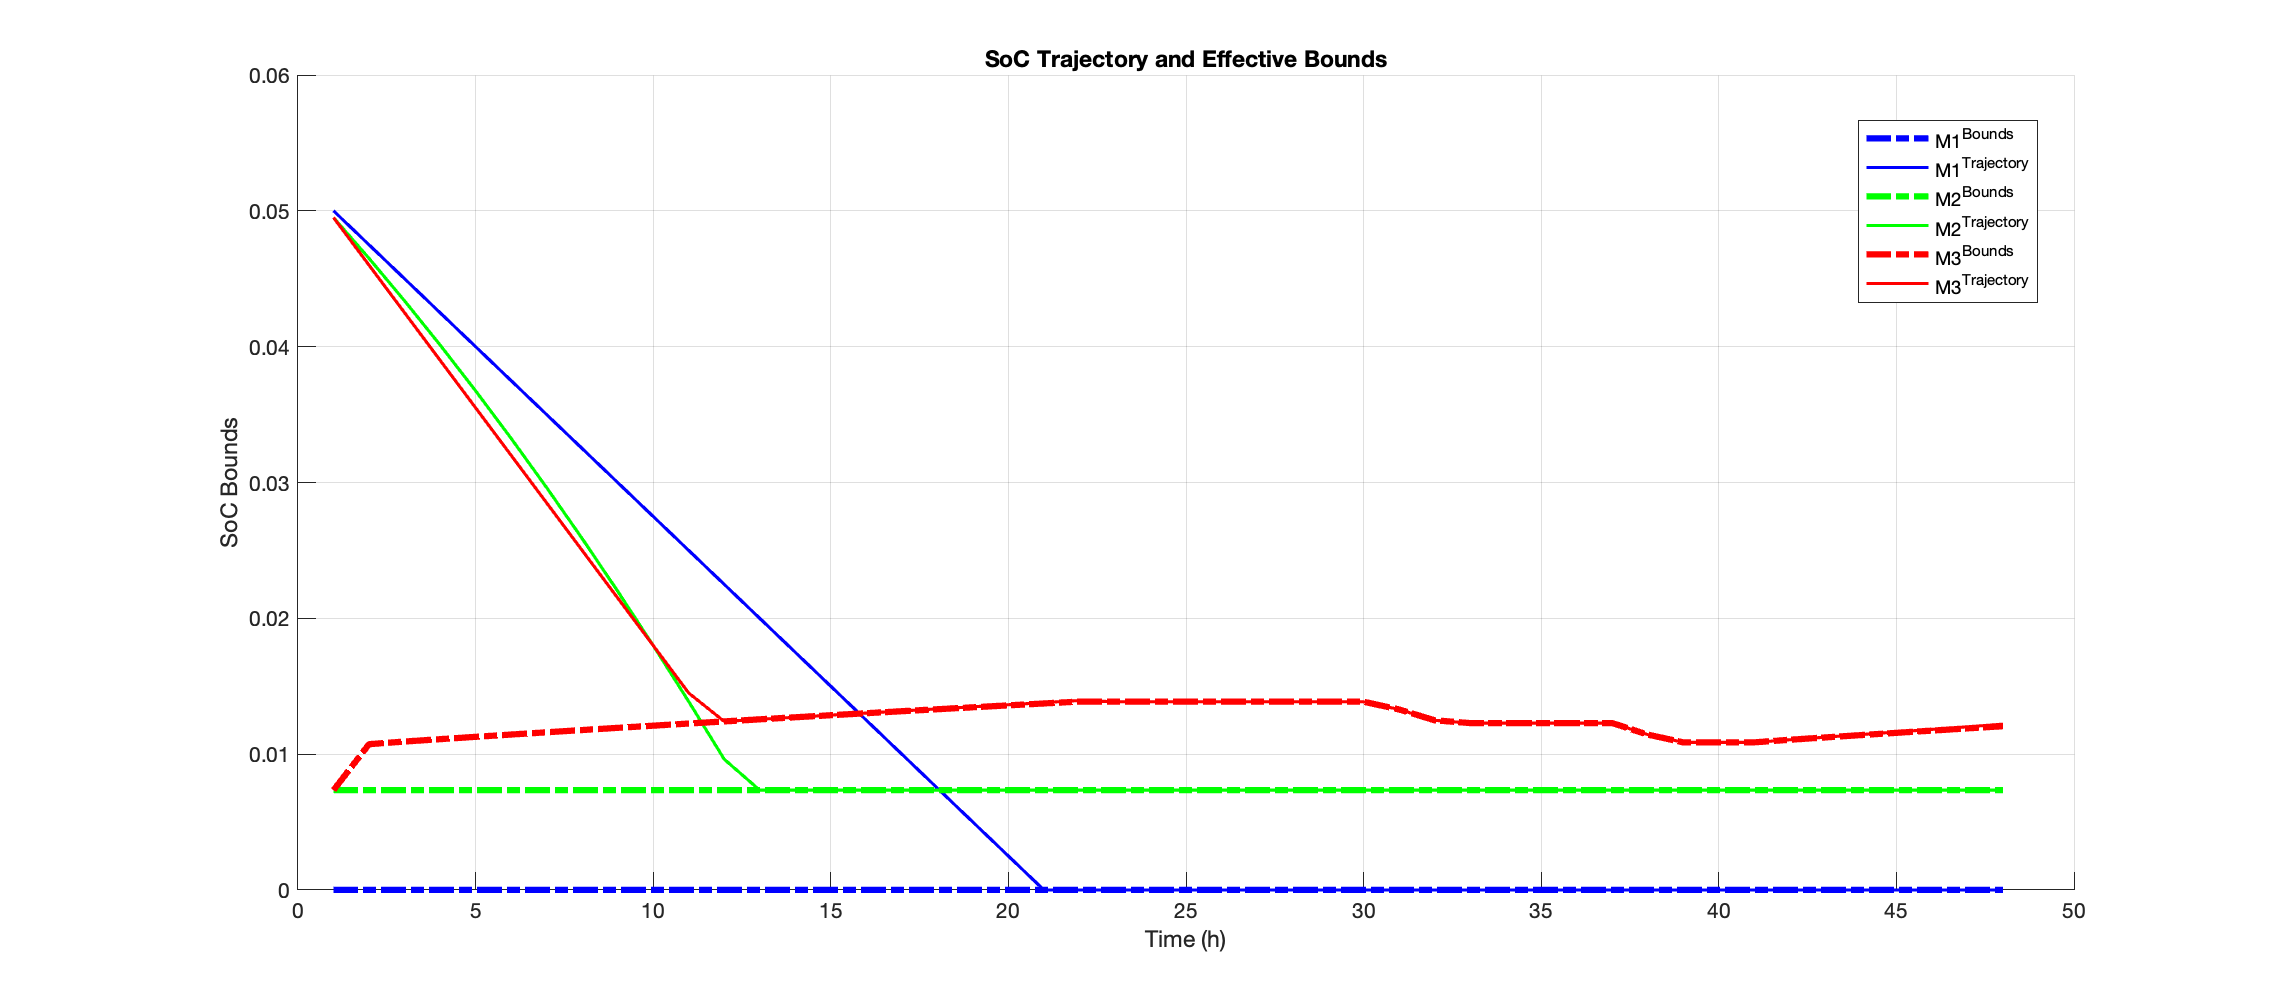
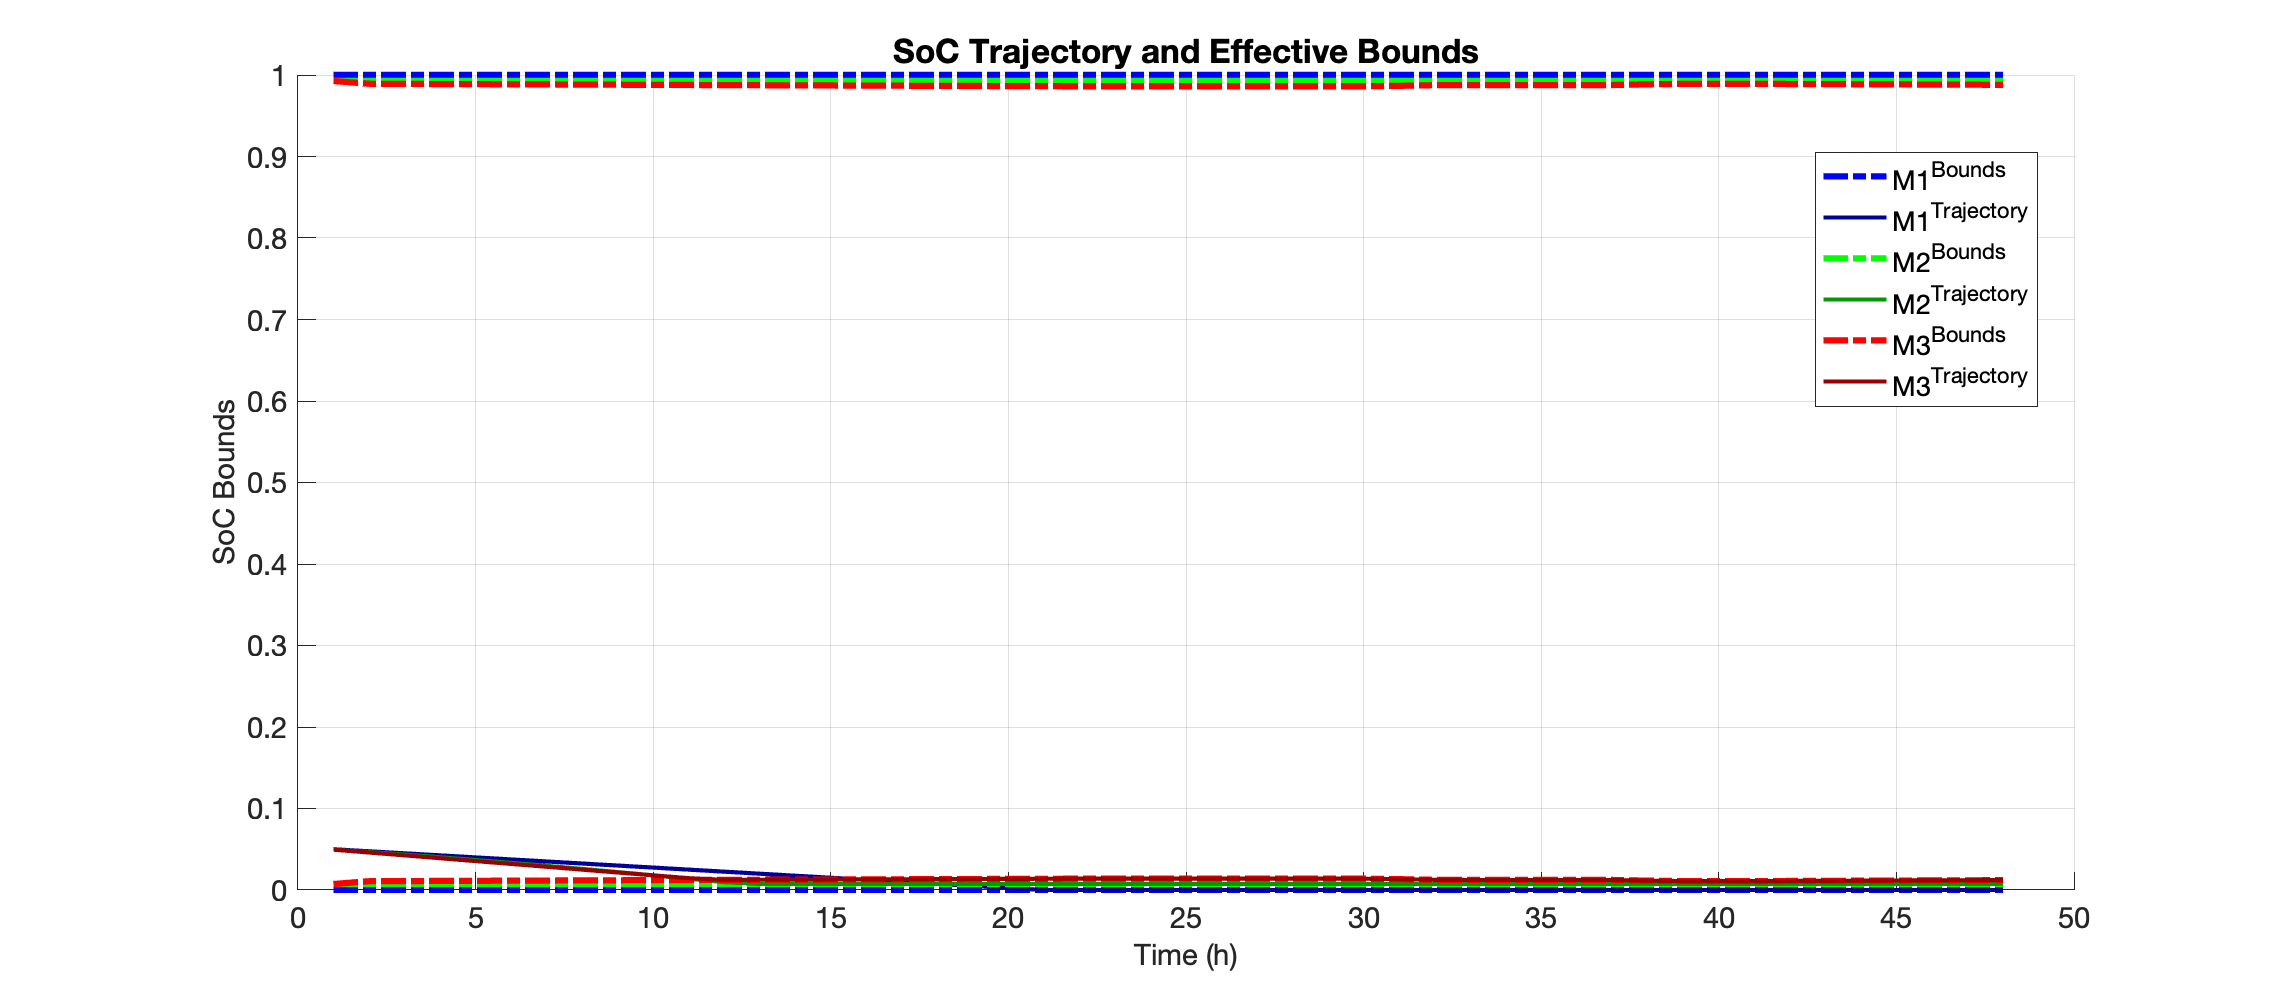
benchmarking h2

diff --git a/simulations/SOC-sims/plotDriver.m b/simulations/SOC-sims/plotDriver.m
@@ -50,6 +50,7 @@ saveas(f1, fullfile(savePath, 'u2_sigma_diu_vs_ddu.png'));
 % =====================================================
 % V_eff format is: [V1_max V1_min V2_max V2_min]
 
+% Extract Volume Bounds/Trajectories for Unit 2
 V2max_M1 = M1.V_eff(:,3);
 V2min_M1 = M1.V_eff(:,4);
 V2_M1 = M1.X(:,6);
@@ -62,28 +63,67 @@ V2max_M3 = M3.V_eff(:,3);
 V2min_M3 = M3.V_eff(:,4);
 V2_M3 = M3.X(:,6);
 
+% Base MATLAB default colors
+blueBound  = [0 0 1];         % blue
+greenBound = [0 1 0];         % green
+redBound   = [1 0 0];         % red
+
+% Trajectory Colors
+blueTraj  = 0.6 * blueBound;
+greenTraj = 0.6 * greenBound;
+redTraj   = 0.6 * redBound;
 
 f2 = figure('Position',[100 480 1100 480]); hold on; grid on;
 
 % M1: Deterministic bounds and policy
-plot(tt, V2min_M1, 'b-.', 'LineWidth', 3, 'DisplayName','M1^{Bounds}');
-plot(tt, V2max_M1, 'b-.', 'LineWidth', 3, 'HandleVisibility','off');
-plot(tt, V2_M1, 'b', 'LineWidth', 1.5, 'DisplayName','M1^{Trajectory}');
+plot(tt, V2min_M1, 'LineWidth',3, 'LineStyle','-.', 'Color',blueBound, 'DisplayName','M1^{Bounds}');
+plot(tt, V2max_M1, 'LineWidth',3, 'LineStyle','-.', 'Color',blueBound, 'HandleVisibility','off');
+plot(tt, V2_M1,    'LineWidth',2, 'Color',blueTraj, 'DisplayName','M1^{Trajectory}');
 
 % M2: DIU bounds and policy
-plot(tt, V2min_M2, 'g-.', 'LineWidth', 3, 'DisplayName','M2^{Bounds}');
-plot(tt, V2max_M2, 'g-.', 'LineWidth', 3, 'HandleVisibility','off');
-plot(tt, V2_M2, 'g', 'LineWidth', 1.5, 'DisplayName','M2^{Trajectory}');
+plot(tt, V2min_M2, 'LineWidth',3, 'LineStyle','-.', 'Color',greenBound, 'DisplayName','M2^{Bounds}');
+plot(tt, V2max_M2, 'LineWidth',3, 'LineStyle','-.', 'Color',greenBound, 'HandleVisibility','off');
+plot(tt, V2_M2,    'LineWidth',2, 'Color',greenTraj, 'DisplayName','M2^{Trajectory}');
 
 % M3: DDU bounds and policy
-plot(tt, V2min_M3, 'r-.', 'LineWidth', 3, 'DisplayName','M3^{Bounds}');
-plot(tt, V2max_M3, 'r-.', 'LineWidth', 3, 'HandleVisibility','off');
-plot(tt, V2_M3, 'r', 'LineWidth', 1.5, 'DisplayName','M3^{Trajectory}');
+plot(tt, V2min_M3, 'LineWidth',3, 'LineStyle','-.', 'Color',redBound, 'DisplayName','M3^{Bounds}');
+plot(tt, V2max_M3, 'LineWidth',3, 'LineStyle','-.', 'Color',redBound, 'HandleVisibility','off');
+plot(tt, V2_M3,    'LineWidth',2, 'Color',redTraj, 'DisplayName','M3^{Trajectory}');
 
-ylim([0,0.06]);
+% ylim([0,0.06]);
 ylabel('SoC Bounds');
 xlabel('Time (h)')
-title('SoC Trajectory and Effective Bounds');
-legend('Location','best');
+set(gca, 'FontSize', 14);        % axes labels, ticks
+set(findall(gcf,'Type','text'), 'FontSize', 14);  % all text objects
+legend('Location','best', 'FontSize', 13);
+title('SoC Trajectory and Effective Bounds', 'FontSize', 16);
 
 saveas(f2, fullfile(savePath, 'u2_soc_diu_vs_ddu.png'));
+
+% =====================================================
+% FIGURE 3: Power Production (Normalized)
+% =====================================================
+
+% Extract power dispatch for each policy
+p2_M1 = M1.X(:,7);
+p2_M2 = M2.X(:,7);
+p2_M3 = M3.X(:,7);
+
+P_all = [p2_M1, p2_M2, p2_M3];
+
+f3 = figure('Position',[100 480 1100 480]); hold on; grid on;
+
+% Plot power dispatch 
+b = bar(tt, P_all, 'grouped');
+
+% Apply MATLAB default colors
+b(1).FaceColor = [0 0 1];    % blue
+b(2).FaceColor = [0 1 0];    % green
+b(3).FaceColor = [1 0 0];    % red
+
+ylabel('Normalized Power (p.u.)');
+xlabel('Time (h)')
+set(gca, 'FontSize', 14);        % axes labels, ticks
+set(findall(gcf,'Type','text'), 'FontSize', 14);  % all text objects
+legend({'M1', 'M2', 'M3'}, 'Location', 'best', 'FontSize', 13);
+title('Unit 02 Normalized Power Dispatch', 'FontSize', 16);

diff --git a/simulations/SOC-sims/hypothesisDriver.m b/simulations/SOC-sims/hypothesisDriver.m
@@ -1,0 +1,96 @@
+%% Plot Driver for DIU vs DIU Comparison
+% ========================================================================
+% Author: Eliza Cohn
+% Description: Test perforamnce of various policies under uncertainty
+% frameworks in a Monte Carlo simulation setting 
+% 
+% Inputs: For uncertainty framework
+%       X: Trajectory of optimal deicision variables 
+%       std_hat: Standard deviation of inflow 
+%       V_eff: Effective volume boundaries 
+%       sysparams: System parameters
+% ========================================================================
+
+clc; clear; close all;
+
+% Load optimal trajectories for each policy (for units n > 1)
+M1 = load('./results/results_unit2_det.mat');
+M2 = load('./results/results_unit2_diu.mat');
+M3 = load('./results/results_unit2_ddu.mat');
+T  = M1.T;
+tt = (1:T)';
+
+% For Hypothesis 02, load in std_hat from DDU run 
+std_hat = M3.std_hat; 
+
+% Load simulation settings 
+simSettings.bounds = "jcc-bon";
+s = M1.sysparams;
+printplot = false; 
+path = ""; % Don't save pngs for now
+
+% Run MC Sims for M1 under DDU assumption 
+[M1_V1, M1_V2, M1_p1_mean, M1_p2_mean] = runMonteCarloSims(s, simSettings.bounds, std_hat, M1.X, path, printplot);
+
+% Run MC Sims for M2 under DDU assumption 
+[M2_V1, M2_V2, M2_p1_mean, M2_p2_mean] = runMonteCarloSims(s, simSettings.bounds, std_hat, M2.X, path, printplot);
+
+% Run MC Sims for M3 under DDU assumption 
+[M3_V1, M3_V2, M3_p1_mean, M3_p2_mean] = runMonteCarloSims(s, simSettings.bounds, std_hat, M3.X, path, printplot);
+
+
+
+% =====================================================
+% FIGURE 1: Clamped Power Production (Normalized)
+% =====================================================
+
+% Extract power dispatch for each policy
+P_all = [M1_p2_mean, M2_p2_mean, M3_p2_mean];
+
+f3 = figure('Position',[100 480 1100 480]); hold on; grid on;
+
+% Plot power dispatch 
+b = bar(tt, P_all, 'grouped');
+
+% Apply MATLAB default colors
+b(1).FaceColor = [0 0 1];    % blue
+b(2).FaceColor = [0 1 0];    % green
+b(3).FaceColor = [1 0 0];    % red
+
+ylabel('Normalized Power (p.u.)');
+xlabel('Time (h)')
+set(gca, 'FontSize', 14);        % axes labels, ticks
+set(findall(gcf,'Type','text'), 'FontSize', 14);  % all text objects
+legend({'M1', 'M2', 'M3'}, 'Location', 'best', 'FontSize', 13);
+title('Unit 02 Normalized Power Dispatch', 'FontSize', 16);
+
+% =====================================================
+% FIGURE 2: Clamped Power Production vs Optimal Power Production 
+% =====================================================
+
+P_M1_all = [M1.X(:,7), M1_p2_mean];
+f4 = figure('Position',[100 480 1100 480]); hold on; grid on;
+
+% Plot power dispatch 
+b = bar(tt, P_M1_all, 'grouped');
+
+ylabel('Normalized Power (p.u.)');
+xlabel('Time (h)')
+set(gca, 'FontSize', 14);        % axes labels, ticks
+set(findall(gcf,'Type','text'), 'FontSize', 14);  % all text objects
+legend({'M1 Original', 'M1 Clamped'}, 'Location', 'best', 'FontSize', 13);
+title('Unit 02 Normalized Power Dispatch', 'FontSize', 16);
+
+%Unit 1
+P_M1_all = [M1.X(:,2), M1_p1_mean];
+f4 = figure('Position',[100 480 1100 480]); hold on; grid on;
+
+% Plot power dispatch 
+b = bar(tt, P_M1_all, 'grouped');
+
+ylabel('Normalized Power (p.u.)');
+xlabel('Time (h)')
+set(gca, 'FontSize', 14);        % axes labels, ticks
+set(findall(gcf,'Type','text'), 'FontSize', 14);  % all text objects
+legend({'M1 Original', 'M1 Clamped'}, 'Location', 'best', 'FontSize', 13);
+title('Unit 01 Normalized Power Dispatch', 'FontSize', 16);
